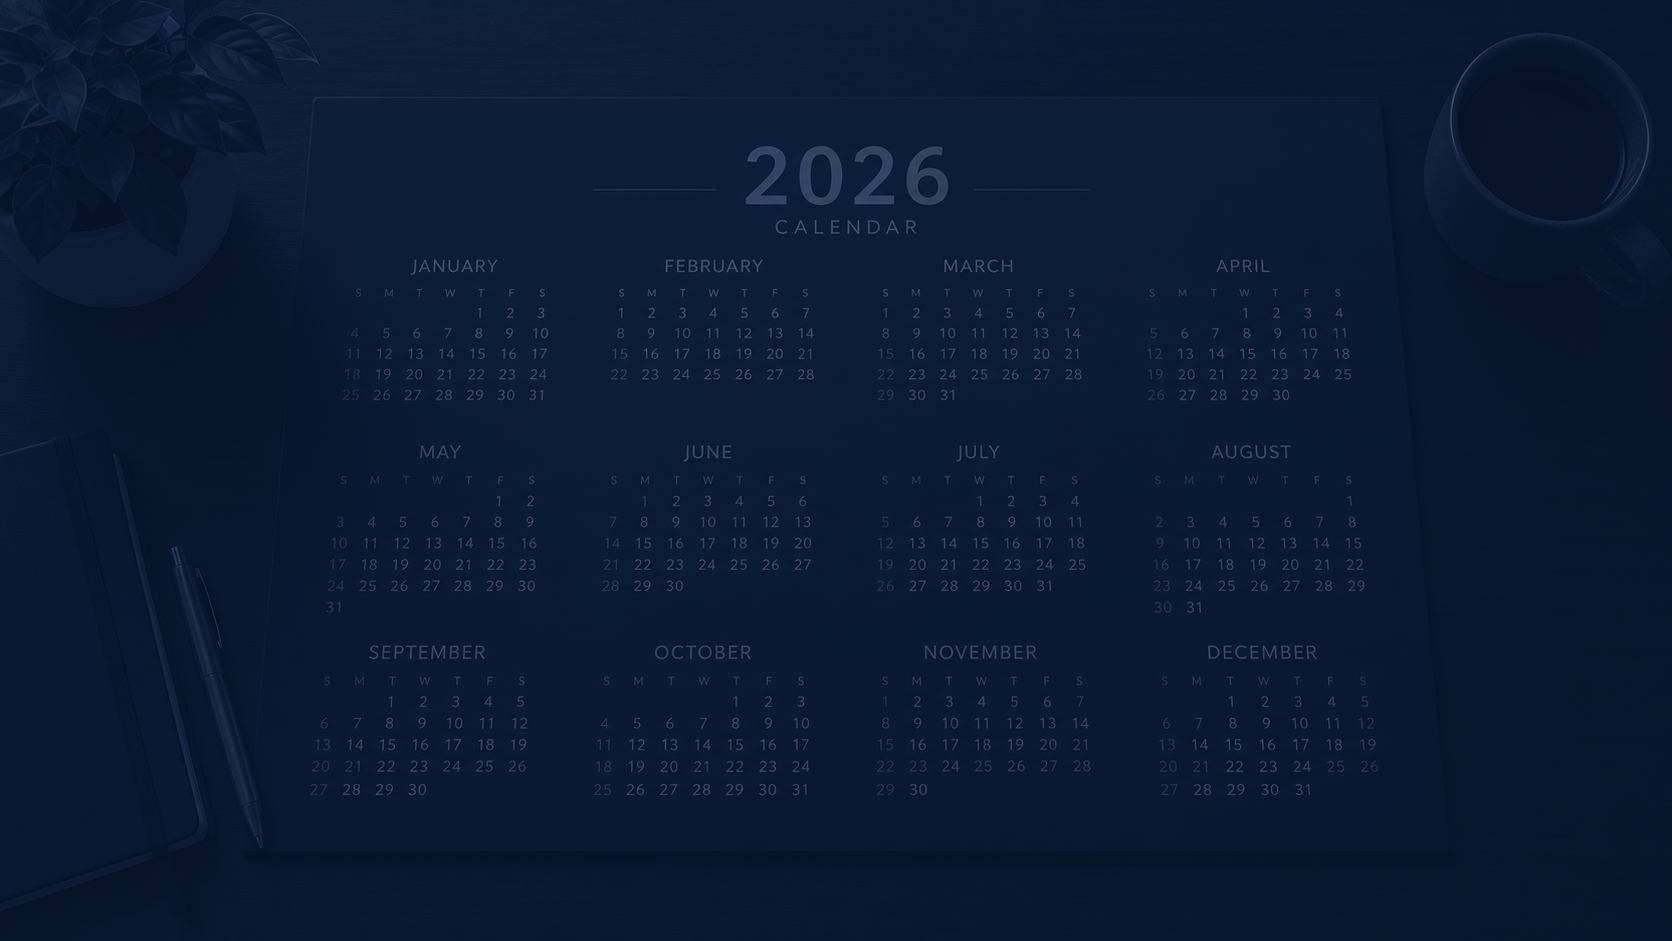
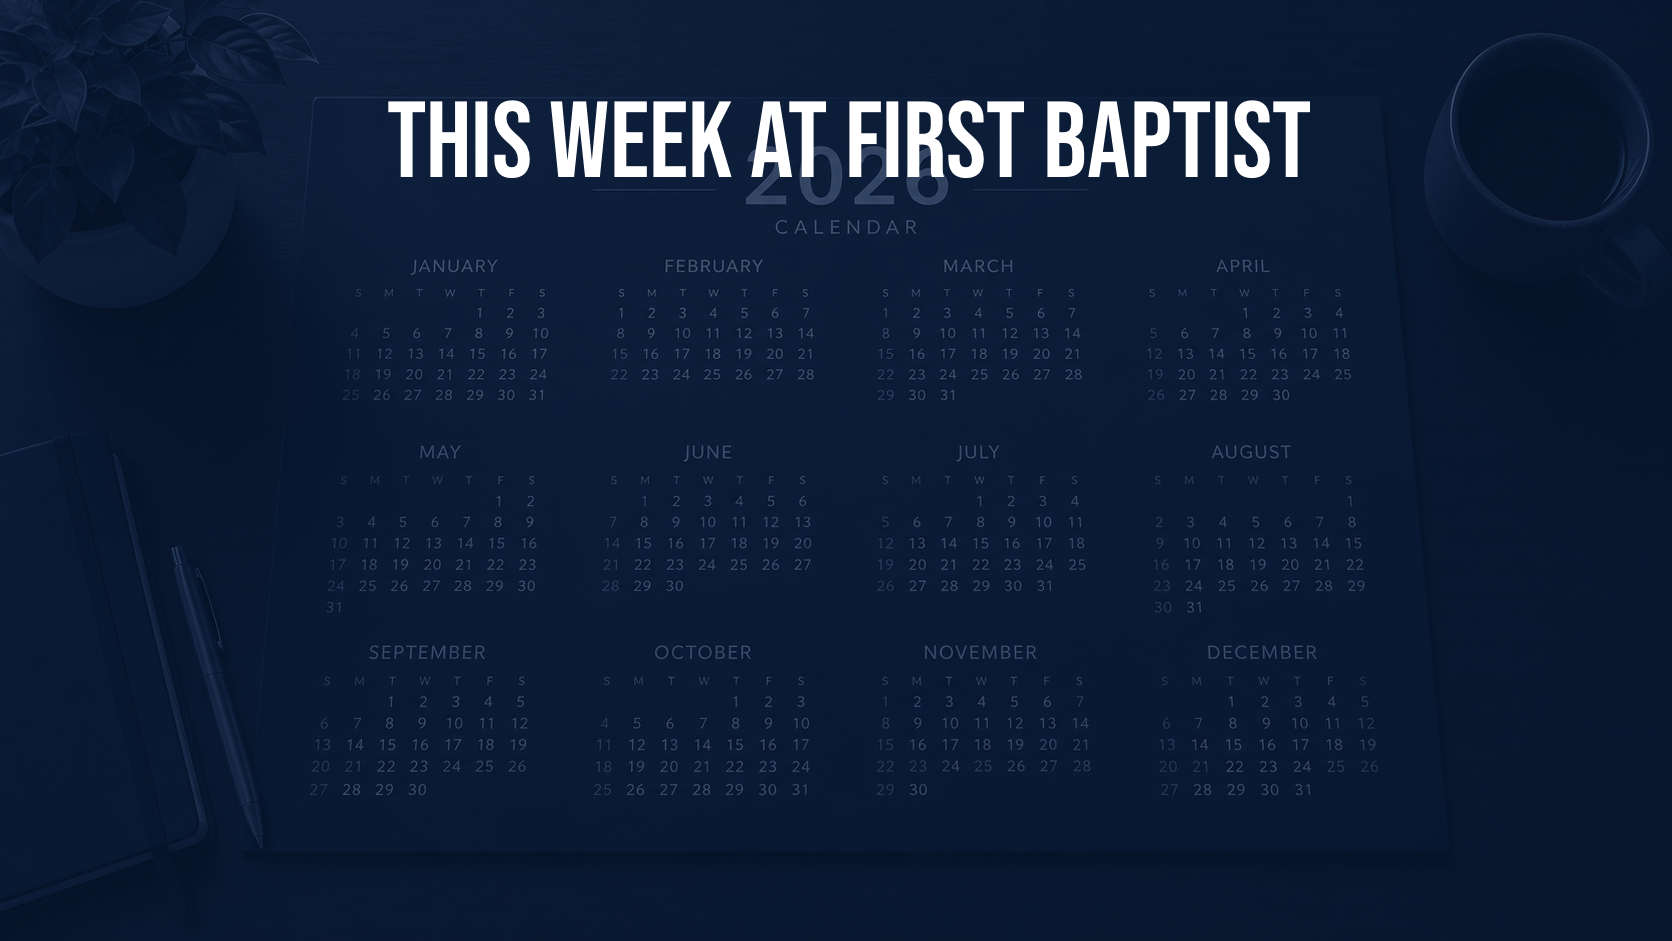
updated html

Changed region(s): [[0.2177, 0.0925, 0.7775, 0.1849]]

diff --git a/index.html b/index.html
@@ -44,7 +44,7 @@
 
     .content {
       position: fixed;
-      top: 100%;
+      top: 250px;
       left: 110px;
       right: 60px;
       transform: translateY(-50%);